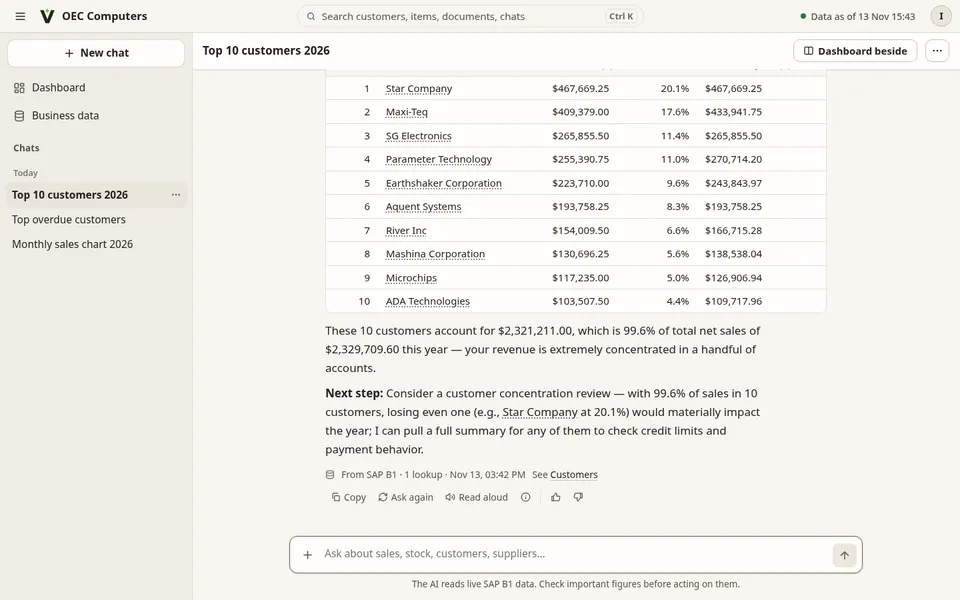
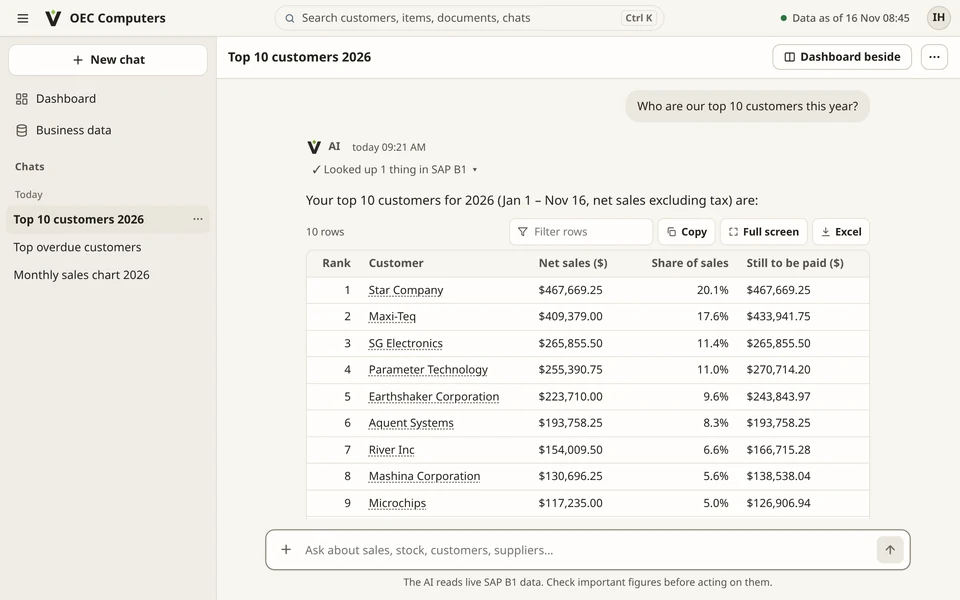
Sharper, better-framed screenshots; fix squashed images
Images keep their shape (height: auto) and fill their frames. New 2x screenshots that start at the
question; the top image is a close-up of the sales chart, with a dark version.

Claude-Session: https://claude.ai/code/session_019hFk9unAwAJQxY4Qv4WGKq

diff --git a/index.html b/index.html
@@ -38,7 +38,8 @@ html { scroll-behavior: smooth; scroll-padding-top: 4.5rem; }
 @media (prefers-reduced-motion: reduce) { html { scroll-behavior: auto; } }
 body { margin: 0; background: var(--bg); color: var(--text); font: 400 1.0625rem/1.6 system-ui, -apple-system, "Segoe UI", Roboto, Arial, sans-serif;
   -webkit-font-smoothing: antialiased; }
-img { max-width: 100%; display: block; }
+img { max-width: 100%; height: auto; display: block; }
+.shot img { width: 100%; }
 a { color: var(--brand); }
 a:hover { color: var(--brand-hover); }
 :focus-visible { outline: 3px solid var(--lime); outline-offset: 2px; }
@@ -262,8 +263,8 @@ footer .wrap { display: flex; justify-content: space-between; gap: 1rem; flex-wr
     </div>
     <div class="shot">
       <div class="bar" aria-hidden="true"><i></i><i></i><i></i></div>
-      <img class="themed" src="assets/img/02-chart-960.webp" srcset="assets/img/02-chart-960.webp 960w, assets/img/02-chart.webp 1440w" sizes="(max-width: 960px) 100vw, 640px"
-           data-dark="assets/img/02-chart-dark-960.webp 960w, assets/img/02-chart-dark.webp 1440w"
+      <img class="themed" src="assets/img/hero-chart-960.webp" srcset="assets/img/hero-chart-960.webp 960w, assets/img/hero-chart.webp 1568w" sizes="(max-width: 960px) 100vw, 640px"
+           data-dark="assets/img/hero-chart-dark-960.webp 960w, assets/img/hero-chart-dark.webp 1568w"
            width="960" height="600" alt="TFP Vantage answering 'Show me a chart of our monthly sales this year' with a bar chart of net sales by month and a short summary">
     </div>
   </div>
@@ -332,23 +333,23 @@ footer .wrap { display: flex; justify-content: space-between; gap: 1rem; flex-wr
       <button role="tab" id="t6" aria-controls="p6" aria-selected="false" tabindex="-1">On a phone</button>
     </div>
     <div class="panel" role="tabpanel" id="p1" aria-labelledby="t1"><figure class="shot">
-      <img loading="lazy" src="assets/img/03-top-customers-960.webp" srcset="assets/img/03-top-customers-960.webp 960w, assets/img/03-top-customers.webp 1440w" sizes="(max-width: 1200px) 100vw, 1150px" width="960" height="600"
+      <img loading="lazy" src="assets/img/03-top-customers-960.webp" srcset="assets/img/03-top-customers-960.webp 960w, assets/img/03-top-customers.webp 1920w" sizes="(max-width: 1200px) 100vw, 1150px" width="960" height="600"
            alt="An answer listing the top 10 customers this year with net sales, share and amount still to be paid">
       </figure><p class="note">"Who are our top 10 customers this year?" The table, the share of sales and what each still owes, with a suggested next step.</p></div>
     <div class="panel" role="tabpanel" id="p2" aria-labelledby="t2" hidden><figure class="shot">
-      <img loading="lazy" src="assets/img/05-dashboard-960.webp" srcset="assets/img/05-dashboard-960.webp 960w, assets/img/05-dashboard.webp 1440w" sizes="(max-width: 1200px) 100vw, 1150px" width="960" height="600"
+      <img loading="lazy" src="assets/img/05-dashboard-960.webp" srcset="assets/img/05-dashboard-960.webp 960w, assets/img/05-dashboard.webp 1920w" sizes="(max-width: 1200px) 100vw, 1150px" width="960" height="600"
            alt="The dashboard: sales, gross profit, invoices, customers who owe, open sales and purchase orders, sales by month and top customers">
       </figure><p class="note">This year's key figures at a glance, with a question box to ask about any of them.</p></div>
     <div class="panel" role="tabpanel" id="p3" aria-labelledby="t3" hidden><figure class="shot">
-      <img loading="lazy" src="assets/img/07-customer-960.webp" srcset="assets/img/07-customer-960.webp 960w, assets/img/07-customer.webp 1440w" sizes="(max-width: 1200px) 100vw, 1150px" width="960" height="600"
+      <img loading="lazy" src="assets/img/07-customer-960.webp" srcset="assets/img/07-customer-960.webp 960w, assets/img/07-customer.webp 1920w" sizes="(max-width: 1200px) 100vw, 1150px" width="960" height="600"
            alt="A customer page: sales this year and last, what they owe and how late, the last 12 months and unpaid invoices">
       </figure><p class="note">One page per customer: what they buy, what they owe and how late, and unpaid invoices. "Ask AI about this customer" in one click.</p></div>
     <div class="panel" role="tabpanel" id="p4" aria-labelledby="t4" hidden><figure class="shot">
-      <img loading="lazy" src="assets/img/06-customers-960.webp" srcset="assets/img/06-customers-960.webp 960w, assets/img/06-customers.webp 1440w" sizes="(max-width: 1200px) 100vw, 1150px" width="960" height="600"
+      <img loading="lazy" src="assets/img/06-customers-960.webp" srcset="assets/img/06-customers-960.webp 960w, assets/img/06-customers.webp 1920w" sizes="(max-width: 1200px) 100vw, 1150px" width="960" height="600"
            alt="The customer list with sales this year, balance, overdue amount, open orders and last document date">
       </figure><p class="note">Customers, suppliers, items and documents in searchable lists, each with an Excel download.</p></div>
     <div class="panel" role="tabpanel" id="p5" aria-labelledby="t5" hidden><figure class="shot">
-      <img loading="lazy" src="assets/img/05-dashboard-dark-960.webp" srcset="assets/img/05-dashboard-dark-960.webp 960w, assets/img/05-dashboard-dark.webp 1440w" sizes="(max-width: 1200px) 100vw, 1150px" width="960" height="600"
+      <img loading="lazy" src="assets/img/05-dashboard-dark-960.webp" srcset="assets/img/05-dashboard-dark-960.webp 960w, assets/img/05-dashboard-dark.webp 1920w" sizes="(max-width: 1200px) 100vw, 1150px" width="960" height="600"
            alt="The dashboard in dark mode">
       </figure><p class="note">Light or dark, following the device or chosen in Settings.</p></div>
     <div class="panel" role="tabpanel" id="p6" aria-labelledby="t6" hidden>

diff --git a/README.md b/README.md
@@ -44,7 +44,7 @@ it again (or commit and push). GitLab republishes the page by itself within a mi
 | Prices | `RM 90`, `RM 2,500`, `RM 3,000` (pricing section, the note under the plans, and the FAQ answer "How much does it cost?") |
 | Plan details | `<div class="plan` (one block per plan) |
 | Questions and answers | `<details>` (one block per question) |
-| Screenshots | Replace the files in `assets/img/` with new ones of the same name and size (1440 x 900) |
+| Screenshots | Replace the files in `assets/img/` with new ones of the same name and size (1920 x 1200; "-960" copies 960 x 600, phone shots 780 x 1688; the top image is `hero-chart`) |
 
 ## Good to know
 
